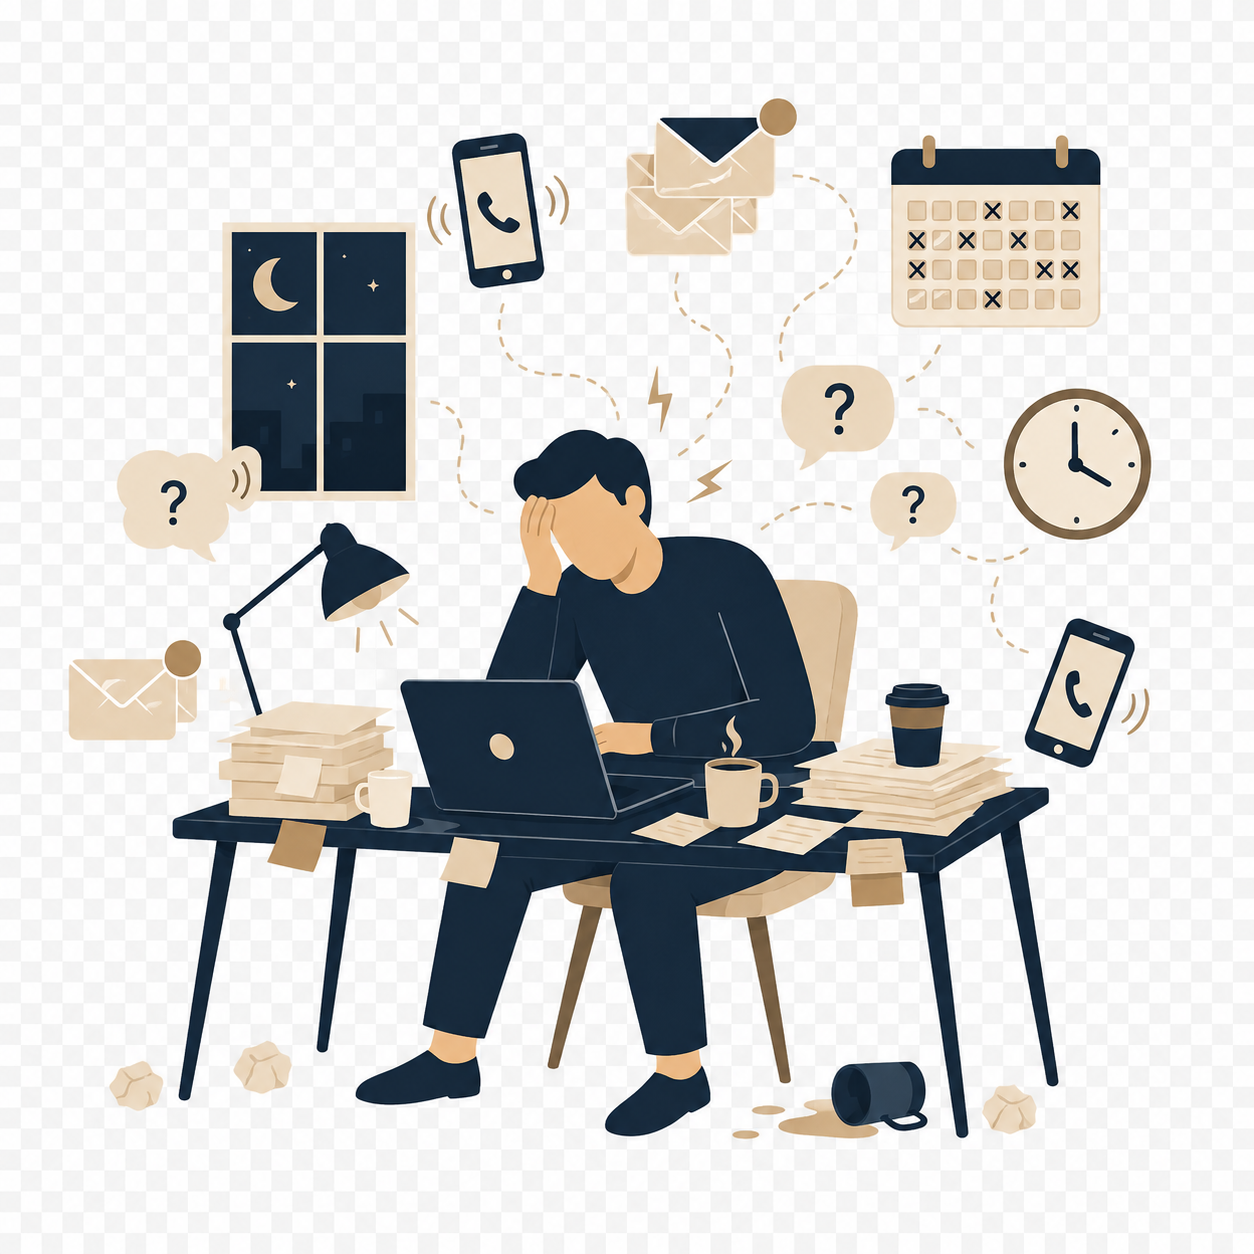
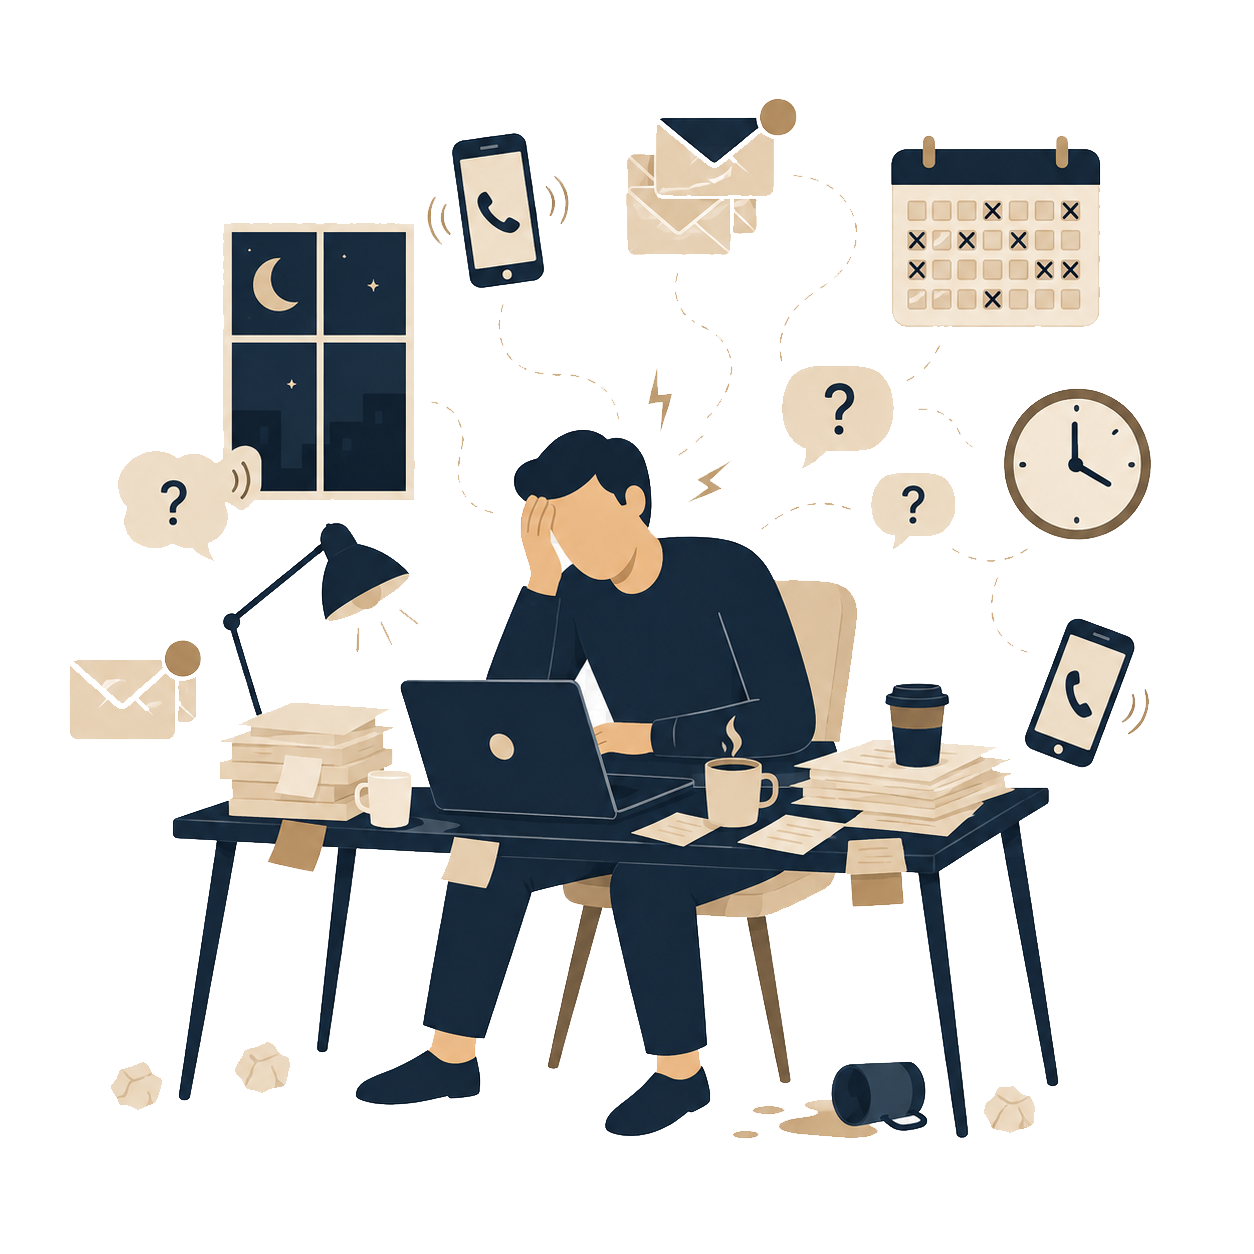
Recompose 'Recognize' section around the illustration; shrink outcome image

diff --git a/index.html b/index.html
@@ -329,28 +329,39 @@
     .hero__img { max-width: 400px; }
   }
 
-  .recognize__img {
-    width: 100%;
-    max-width: 340px;
-    height: auto;
-    display: block;
-    margin: 0 0 28px;
+  .recognize__top {
+    display: grid;
+    grid-template-columns: 0.9fr 1.1fr;
+    gap: 56px;
+    align-items: center;
+    margin-bottom: 56px;
   }
   @media (max-width: 980px) {
-    .recognize__img { max-width: 280px; margin-left: auto; margin-right: auto; }
+    .recognize__top { grid-template-columns: 1fr; gap: 28px; margin-bottom: 40px; text-align: center; }
+    .recognize__intro { text-align: left; }
+  }
+  .recognize__img {
+    width: 100%;
+    max-width: 380px;
+    height: auto;
+    display: block;
+    margin: 0 auto;
+  }
+  @media (max-width: 980px) {
+    .recognize__img { max-width: 280px; }
   }
 
   .outcome__img {
     width: 100%;
-    max-width: 460px;
+    max-width: 360px;
     height: auto;
     display: block;
-    margin: 0 auto 64px;
+    margin: 0 auto 48px;
     position: relative;
     z-index: 1;
   }
   @media (max-width: 720px) {
-    .outcome__img { max-width: 320px; margin-bottom: 40px; }
+    .outcome__img { max-width: 280px; margin-bottom: 32px; }
   }
 
   .hero__card {
@@ -1421,36 +1432,38 @@
       </div>
     </div>
 
+    <div class="recognize__top">
+      <img class="recognize__img reveal" src="pain1.png" alt="Предприниматель, заваленный операционной рутиной" />
+      <div class="recognize__intro reveal">
+        <h2 class="display-md recognize__claim">
+          Вы хотите перестать делать всё самому и вернуть себе время на <span class="accent">стратегию, семью и отдых</span>?
+        </h2>
+        <p class="body-lg">Хотя бы одна из ситуаций ниже про вас. Каждая приводит к одному ощущению — что вы тянете всё на себе и теряете контроль над временем.</p>
+      </div>
+    </div>
+
     <div class="recognize__grid">
       <div class="recognize__col-left reveal">
-        <img class="recognize__img" src="pain1.png" alt="Предприниматель, заваленный операционной рутиной" />
-        <h2 class="display-md recognize__claim">
-          Вы хотите перестать <br>
-          делать всё самому <br>
-          и вернуть себе время на <span class="accent">стратегию, семью и отдых</span>?
-        </h2>
-        <p class="body-lg">Хотя бы одна из ситуаций справа про вас. Каждая приводит к одному ощущению — что вы тянете всё на себе и теряете контроль над временем.</p>
+        <span class="recognize__sublabel">Ситуации</span>
+        <ul class="situations">
+          <li>Уже пробовали нанять ассистента сами. Кандидат ушёл через месяц или не подошёл — остались с открытой вакансией и потерянным временем</li>
+          <li>Бизнес вырос, любой вопрос команды и клиентов летит лично вам. Вы стали бутылочным горлышком</li>
+          <li>Случилось важное событие: новый проект, ребёнок, переезд. Времени резко не хватает, решение нужно сейчас</li>
+          <li>Работаете по 12 часов, не помните, когда был выходной. Понимаете: ещё немного и сломаетесь</li>
+        </ul>
+        <p class="recognize__closer">Узнали себя? — Читайте дальше</p>
+      </div>
 
-        <div class="emotions-wrap" style="margin-top: 32px;">
+      <div class="recognize__col-right reveal">
+        <div class="emotions-wrap">
           <span class="recognize__sublabel">Что вы чувствуете прямо сейчас</span>
           <ul class="emotions">
             <li>Раздражение, что снова придётся проходить весь круг найма</li>
             <li>Тревогу, что повторите прошлую ошибку и опять потеряете 2–3 месяца</li>
-            <li>Усталость от того, что всё держится лично на вас</li>
+            <li>Усталость — всё держится лично на вас</li>
             <li>Стыд, что сами довели себя до 12-часового рабочего дня</li>
           </ul>
         </div>
-      </div>
-
-      <div class="recognize__col-right reveal">
-        <span class="recognize__sublabel">Ситуации</span>
-        <ul class="situations">
-          <li>Уже пробовали нанять ассистента сами. Кандидат ушёл через месяц или не подошёл, и вы остались с открытой вакансией и потерянным временем</li>
-          <li>Бизнес вырос, и теперь любой вопрос команды и клиентов летит лично вам. Вы стали бутылочным горлышком</li>
-          <li>Случилось важное событие: новый проект, ребёнок, переезд. Времени резко стало не хватать, и решение нужно сейчас</li>
-          <li>Работаете по 12 часов, не помните, когда был последний выходной. Понимаете: ещё немного, и сломаетесь</li>
-        </ul>
-        <p class="recognize__closer">Узнали себя? — Читайте дальше</p>
       </div>
     </div>
   </div>